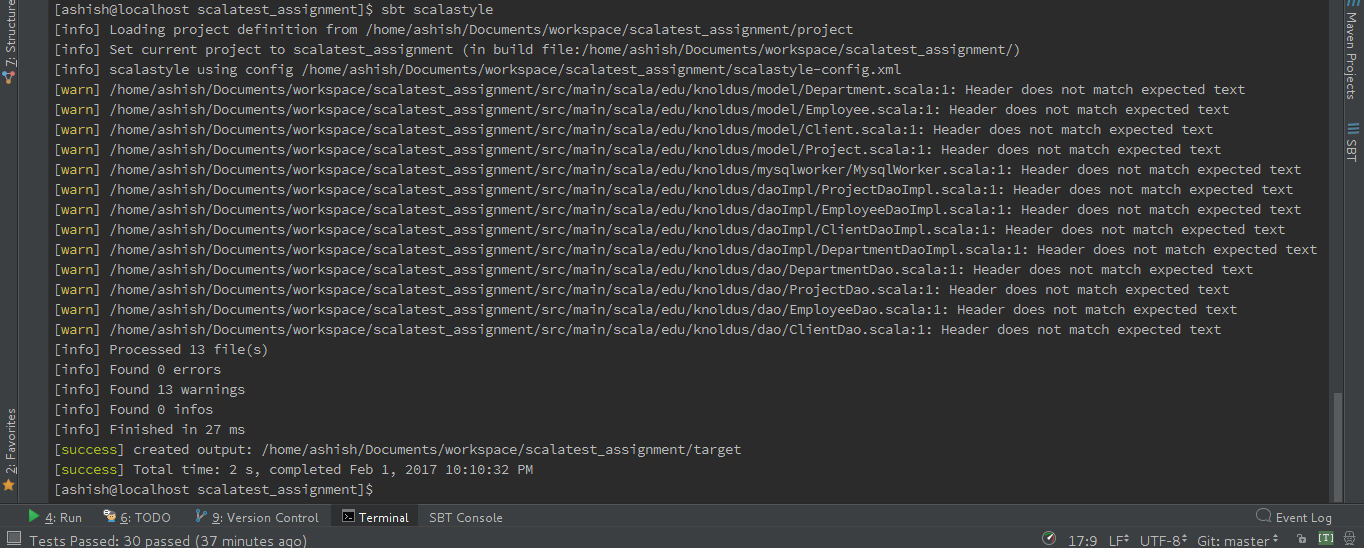
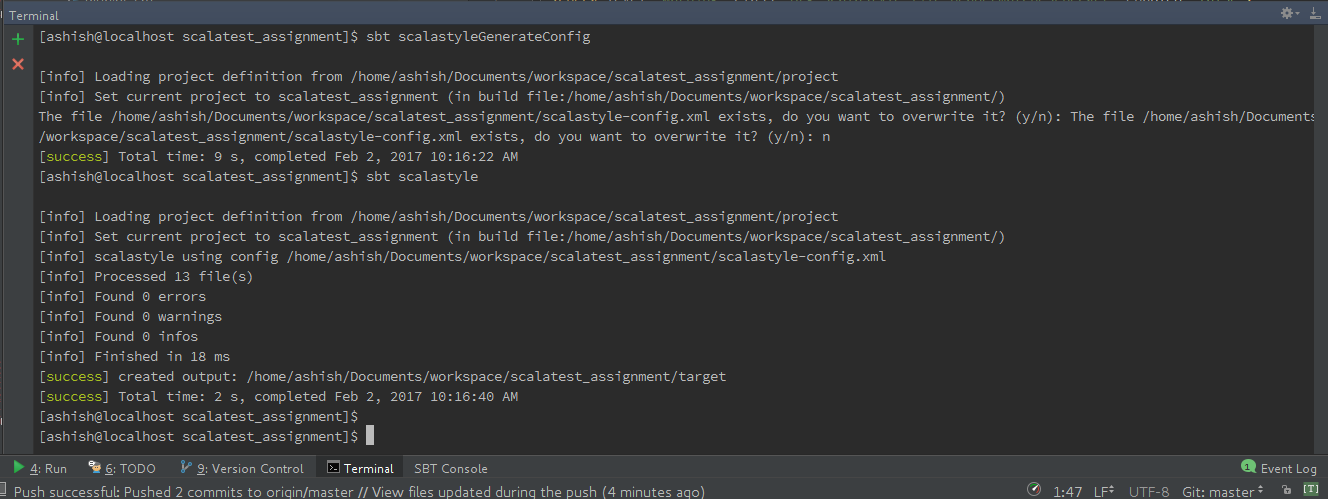
Adding scalastyle screen-shot

Changed region(s): [[0.0, 0.0, 1.0, 1.0], [0.741, 0.7214, 1.0, 1.0]]

diff --git a/README.md b/README.md
@@ -14,6 +14,8 @@ I guess the problem was that scalatest (in terminal) run the test cases in no pa
 ![alt tag](https://raw.githubusercontent.com/ashishknoldus/assignment-05-ashish-tomer/master/scalaStyle.png)
 There was this particular warning. I couldn't resolve it.
 
+<b>Update : The warning has been resolved</b>
+
 ## log4j Logger
 
 I coudn't find a particular documentation on internet and couldn't perform logging.
